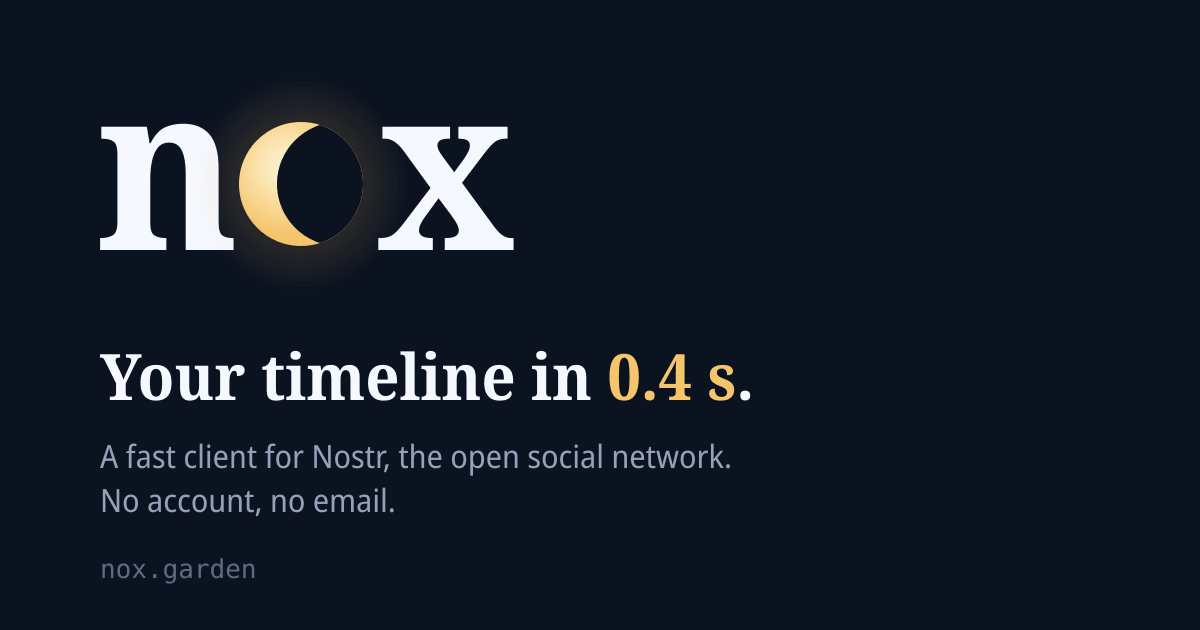
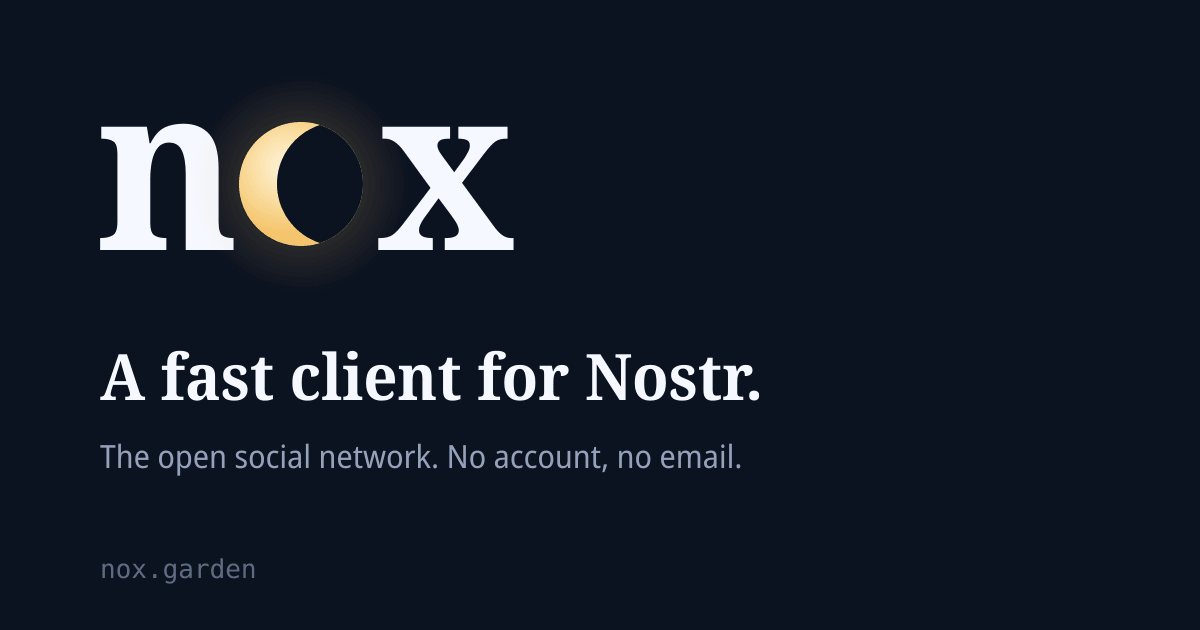
feat(web): the landing page and share card make no load-time promise
Drops LANDING-2: load time depends on the device, network and relays.

Changed region(s): [[0.0617, 0.5429, 0.6475, 0.6333], [0.0617, 0.6937, 0.6167, 0.754], [0.0617, 0.7841, 0.3392, 0.8143]]

diff --git a/src/styles.css b/src/styles.css
@@ -648,47 +648,6 @@ body:has(.nox-landing) .nox-feed-panel {
   line-height: 1.6;
 }
 
-/* The claim the page rests on, set as a reading rather than a slogan. */
-.nox-landing-speed {
-  display: flex;
-  align-items: center;
-  gap: 0.9rem;
-  margin: 0 0 0.5rem;
-  padding: 0.85rem 1rem;
-  border: 1px solid var(--nox-border);
-  border-radius: 14px;
-}
-
-.nox-landing-speed-figure {
-  margin: 0;
-  font-family: "Iowan Old Style", "Palatino Linotype", Georgia, serif;
-  font-size: 2.6rem;
-  font-weight: 700;
-  line-height: 1;
-  font-variant-numeric: tabular-nums;
-  white-space: nowrap;
-  flex-shrink: 0;
-  color: #f4c56b;
-}
-
-.nox-landing-speed-figure span {
-  font-size: 1.1rem;
-  font-weight: 400;
-  color: var(--nox-text-muted);
-}
-
-.nox-landing-speed-label {
-  margin: 0;
-  color: var(--nox-text);
-  font-size: 0.95rem;
-  line-height: 1.4;
-}
-
-.nox-landing-speed-label span {
-  color: var(--nox-text-dim);
-  font-size: 0.75rem;
-}
-
 body.theme-nox .nox-landing-apps {
   align-self: center;
   padding: 0.25rem 0.5rem;

diff --git a/tests/landing.test.ts b/tests/landing.test.ts
@@ -15,10 +15,6 @@ const welcome: string = readFileSync(
   join(root, 'src/features/home/welcome.ts'),
   'utf8',
 );
-const appsPage: string = readFileSync(
-  join(root, 'public/apps/index.html'),
-  'utf8',
-);
 
 function meta(attr: 'property' | 'name', key: string): string | null {
   const match: RegExpMatchArray | null = indexHtml.match(
@@ -26,14 +22,6 @@ function meta(attr: 'property' | 'name', key: string): string | null {
   );
   return match?.[1] ?? null;
 }
-
-test('LANDING-2: the landing page quotes the same tap-to-timeline time as /apps', (): void => {
-  const figure: RegExpMatchArray | null = welcome.match(
-    /nox-landing-speed-figure">([\d.]+)</,
-  );
-  assert.ok(figure, 'the landing page shows a speed figure');
-  assert.match(appsPage, new RegExp(`${figure[1]} s</b>`));
-});
 
 test('LANDING-3: Get the app leads to /apps as a full page load', (): void => {
   assert.match(

diff --git a/src/features/home/welcome.ts b/src/features/home/welcome.ts
@@ -66,10 +66,6 @@ export async function showInputForm(
           <h1 id="landing-title" class="nox-landing-title">Start reading in one tap.</h1>
           <p class="nox-landing-lede">A fast client for Nostr, the open social network. No account, no email.</p>
 
-          <div class="nox-landing-speed">
-            <p class="nox-landing-speed-figure">0.4<span> s</span></p>
-            <p class="nox-landing-speed-label">from tap to timeline<br /><span>Android app, cold start, shown from its cache</span></p>
-          </div>
 
           <button id="welcome-global" class="nox-primary-button nox-landing-cta">Start reading</button>
           ${appsLink}

diff --git a/src/index.html b/src/index.html
@@ -16,7 +16,7 @@
   <meta property="og:image" content="https://nox.garden/og.png" />
   <meta property="og:image:width" content="1200" />
   <meta property="og:image:height" content="630" />
-  <meta property="og:image:alt" content="nox. Your timeline in 0.4 s." />
+  <meta property="og:image:alt" content="nox. A fast client for Nostr, the open social network." />
   <meta name="twitter:card" content="summary_large_image" />
   <meta name="twitter:title" content="nox" />
   <meta name="twitter:description" content="A fast client for Nostr, the open social network. No account, no email." />

diff --git a/docs/features/landing/spec.md b/docs/features/landing/spec.md
@@ -13,14 +13,12 @@ The page shows, in this order:
 1. The wordmark with the waxing moon.
 2. The promise: what nox is (a fast client for Nostr, the open social
    network), and that there is no account and no email.
-3. The proof of speed: the measured time from tap to timeline, with what it
-   was measured on.
-4. "Start reading" as the one primary action, and "Get the app" as a quiet
+3. "Start reading" as the one primary action, and "Get the app" as a quiet
    second one that leads to `/apps`.
-5. Under them, one note on data: nox has no server that stores your data,
+4. Under them, one note on data: nox has no server that stores your data,
    link previews pass through a proxy, and both are open source.
-6. "Already on Nostr?" with the existing sign-in choices, unchanged.
-7. The footer: About, Terms, Privacy.
+5. "Already on Nostr?" with the existing sign-in choices, unchanged.
+6. The footer: About, Terms, Privacy.
 
 On a wide screen the wordmark sits on the left, and the rest on the right.
 
@@ -32,8 +30,9 @@ card with a picture, the name and the promise, not a bare URL.
 - LANDING-1: The landing page says nox has no server that stores your data,
   says link previews pass through a proxy, and links to the source of nox
   (github.com/junkpiano/nox) and of the proxy (github.com/junkpiano/nostr-proxy).
-- LANDING-2: The landing page states the measured time from tap to timeline
-  and what it was measured on, with the same figures as `/apps`.
+- ~~LANDING-2: The landing page states the measured time from tap to timeline
+  and what it was measured on, with the same figures as `/apps`.~~ Dropped:
+  load time depends on the device, network and relays, and is not guaranteed.
 - LANDING-3: "Start reading" is the only primary button. A "Get the app" link
   leads to `/apps`, and is not shown inside the desktop or phone app.
 - LANDING-4: `/` serves Open Graph and Twitter card tags with a description
@@ -52,14 +51,13 @@ card with a picture, the name and the promise, not a bare URL.
   wrong first impression to leave to chance.
 - App Store and Google Play badges. The apps are not public yet; `/apps` says
   where each one stands. Add badges when a store listing is live.
+- Load-time figures. They depend on the device, the network and the relays,
+  so no number is a promise nox can keep.
 - Analytics, sign-up counters or testimonials. nox has no server to count
   with, and invented praise is worse than none.
 
 ## Open
 
-- Is 0.4 s (the Android app's cached timeline after a cold start, release
-  build) still the figure to quote, or is there a newer measurement? The
-  landing page, `/apps` and the share card quote it, and a test keeps the
-  landing figure equal to `/apps`.
+- `/apps` still quotes a measured 0.4 s. Keep it there, or drop it too?
 - Should the desktop layout also show a picture of the phone app? It needs a
   real screenshot with posts you are happy to show.
